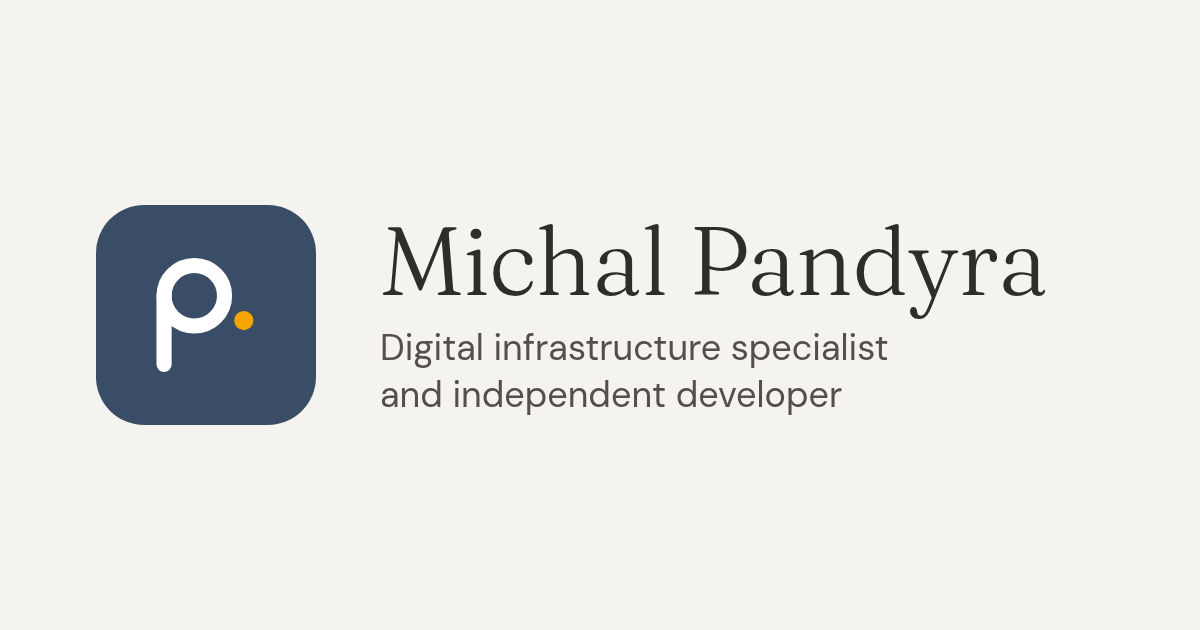
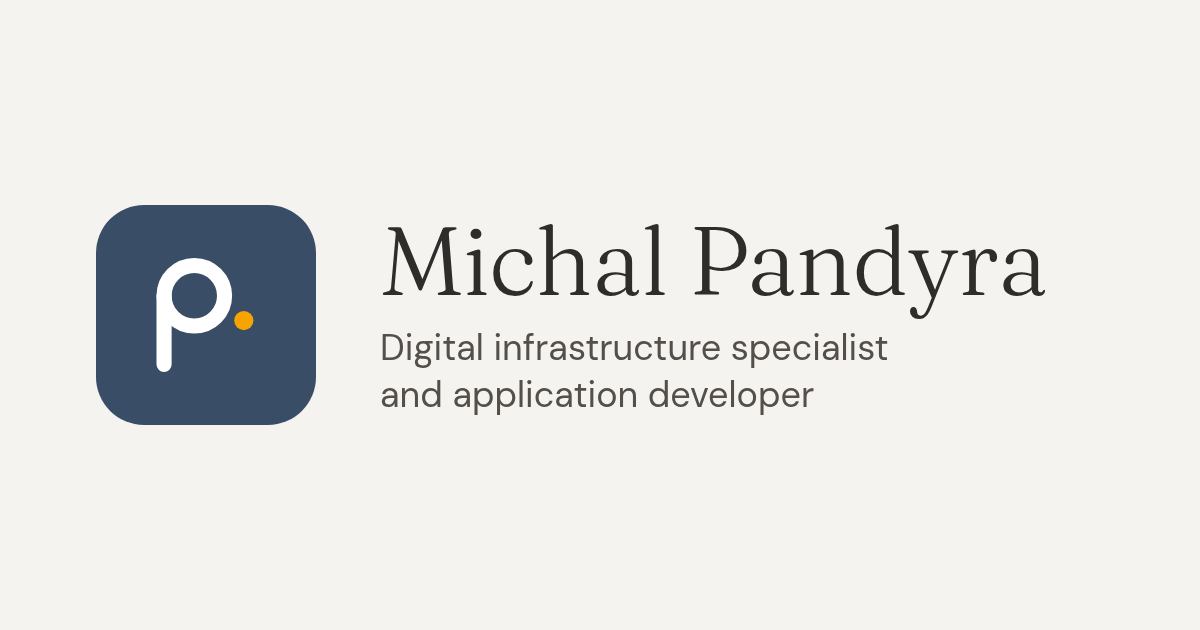
Release: GA4, privacy page, app pages, pandymic.com subtitle and LinkedIn

Changed region(s): [[0.37, 0.6032, 0.7092, 0.6635]]

diff --git a/me.html b/me.html
@@ -4,4 +4,4 @@
 <!--║ snek  rogu                         ║-->
 <!--║ (Esc exits back to this menu)      ║-->
 <!--╚════════════════════════════════════╝-->
-<!DOCTYPE html> <html lang="en"> <head> <meta charset="utf-8"> <meta name="viewport" content="width=device-width,initial-scale=1"> <title>Michal Pandyra</title> <meta name="description" content="Michal Pandyra&#39;s contact card. Email, phone, website and GitHub, or save it straight to your contacts."> <link rel="canonical" href="https://pandymic.com/me"> <meta name="color-scheme" content="light dark"> <meta name="theme-color" media="(prefers-color-scheme: light)" content="#f5f3ef"> <meta name="theme-color" media="(prefers-color-scheme: dark)" content="#1c1b19"> <meta property="og:type" content="website"> <meta property="og:site_name" content="Michal Pandyra"> <meta property="og:title" content="Michal Pandyra"> <meta property="og:description" content="Michal Pandyra&#39;s contact card. Email, phone, website and GitHub, or save it straight to your contacts."> <meta property="og:url" content="https://pandymic.com/me"> <meta property="og:image" content="https://pandymic.com/assets/og.png"> <meta property="og:image:width" content="1200"> <meta property="og:image:height" content="630"> <meta name="twitter:card" content="summary_large_image"> <link rel="icon" href="/assets/favicon.svg?v=7860858017" type="image/svg+xml"> <link rel="icon" href="/assets/favicon-32.png?v=a0b72ff6d1" type="image/png" sizes="32x32"> <link rel="apple-touch-icon" href="/assets/apple-touch-icon.png?v=58786819da"> <link rel="preload" href="/fonts/fraunces-latin-300-normal.woff2" as="font" type="font/woff2" crossorigin> <link rel="preload" href="/fonts/dm-sans-latin-400-normal.woff2" as="font" type="font/woff2" crossorigin> <link rel="stylesheet" href="/css/me.css?v=8a99a03110"> <script src="/js/me.js?v=1b71f2b56e" defer></script> </head> <body> <div class="glitch-overlay" aria-hidden="true"></div> <main class="card" id="main"> <div class="portrait-container"> <picture> <source srcset="/assets/img/portrait-320.avif?v=8334a9f8f9" type="image/avif"> <source srcset="/assets/img/portrait-320.webp?v=ae513f578d" type="image/webp"> <img src="/assets/img/portrait-320.jpg?v=8a261c3683" alt="Portrait of Michal Pandyra" width="320" height="320"> </picture> </div> <h1>Michal Pandyra</h1> <p class="contact-subtitle"> <a href="mailto:mike@pandymic.com">mike@pandymic.com</a><br> <a href="tel:+17788854257">778-885-4257</a> </p> <div class="actions"> <a class="btn primary-btn btn-full" href="/"><svg class="icon" viewBox="0 0 24 24" fill="currentColor" aria-hidden="true" focusable="false"><path d="M3.9 12c0-1.71 1.39-3.1 3.1-3.1h4V7H7c-2.76 0-5 2.24-5 5s2.24 5 5 5h4v-1.9H7c-1.71 0-3.1-1.39-3.1-3.1zM8 13h8v-2H8v2zm9-6h-4v1.9h4c1.71 0 3.1 1.39 3.1 3.1s-1.39 3.1-3.1 3.1h-4V17h4c2.76 0 5-2.24 5-5s-2.24-5-5-5z"/></svg>Website</a> <a class="btn" href="https://github.com/pandymic"><svg class="icon" viewBox="0 0 24 24" fill="currentColor" aria-hidden="true" focusable="false"><path d="M12 2C6.477 2 2 6.477 2 12c0 4.419 2.865 8.166 6.839 9.489.5.092.682-.217.682-.482 0-.237-.008-.866-.013-1.7-2.782.603-3.369-1.34-3.369-1.34-.454-1.156-1.11-1.464-1.11-1.464-.908-.62.069-.608.069-.608 1.003.07 1.531 1.03 1.531 1.03.892 1.529 2.341 1.087 2.91.832.092-.647.35-1.088.636-1.338-2.22-.253-4.555-1.113-4.555-4.951 0-1.093.39-1.988 1.029-2.688-.103-.253-.446-1.272.098-2.65 0 0 .84-.27 2.75 1.026A9.564 9.564 0 0112 6.844c.85.004 1.705.115 2.504.337 1.909-1.296 2.747-1.027 2.747-1.027.546 1.379.202 2.398.1 2.651.64.7 1.028 1.595 1.028 2.688 0 3.848-2.339 4.695-4.566 4.943.359.309.678.92.678 1.855 0 1.338-.012 2.419-.012 2.747 0 .268.18.58.688.482C19.138 20.161 22 16.416 22 12c0-5.523-4.477-10-10-10z"/></svg>Personal<span class="sr-only"> GitHub</span></a> <a class="btn" href="https://github.com/pandymic-pfg"><svg class="icon" viewBox="0 0 24 24" fill="currentColor" aria-hidden="true" focusable="false"><path d="M12 2C6.477 2 2 6.477 2 12c0 4.419 2.865 8.166 6.839 9.489.5.092.682-.217.682-.482 0-.237-.008-.866-.013-1.7-2.782.603-3.369-1.34-3.369-1.34-.454-1.156-1.11-1.464-1.11-1.464-.908-.62.069-.608.069-.608 1.003.07 1.531 1.03 1.531 1.03.892 1.529 2.341 1.087 2.91.832.092-.647.35-1.088.636-1.338-2.22-.253-4.555-1.113-4.555-4.951 0-1.093.39-1.988 1.029-2.688-.103-.253-.446-1.272.098-2.65 0 0 .84-.27 2.75 1.026A9.564 9.564 0 0112 6.844c.85.004 1.705.115 2.504.337 1.909-1.296 2.747-1.027 2.747-1.027.546 1.379.202 2.398.1 2.651.64.7 1.028 1.595 1.028 2.688 0 3.848-2.339 4.695-4.566 4.943.359.309.678.92.678 1.855 0 1.338-.012 2.419-.012 2.747 0 .268.18.58.688.482C19.138 20.161 22 16.416 22 12c0-5.523-4.477-10-10-10z"/></svg>Corporate<span class="sr-only"> GitHub</span></a> <button class="btn primary-btn" id="share-trigger" type="button" hidden><svg class="icon" viewBox="0 0 24 24" fill="currentColor" aria-hidden="true" focusable="false"><path d="M18 16.08c-.76 0-1.44.3-1.96.77L8.91 12.7c.05-.23.09-.46.09-.7s-.04-.47-.09-.7l7.05-4.11c.54.5 1.25.81 2.04.81 1.66 0 3-1.34 3-3s-1.34-3-3-3-3 1.34-3 3c0 .24.04.47.09.7L8.04 9.81C7.5 9.31 6.79 9 6 9c-1.66 0-3 1.34-3 3s1.34 3 3 3c.79 0 1.5-.31 2.04-.81l7.12 4.16c-.05.21-.08.43-.08.65 0 1.61 1.31 2.92 2.92 2.92s2.92-1.31 2.92-2.92c0-1.61-1.31-2.92-2.92-2.92z"/></svg>Share</button> <a class="btn primary-btn" id="vcard-trigger" href="/michal-pandyra.vcf" download><svg class="icon" viewBox="0 0 24 24" fill="currentColor" aria-hidden="true" focusable="false"><path d="M20 7h-4V5c0-.55-.45-1-1-1H9c-.55 0-1 .45-1 1v2H4c-1.1 0-2 .9-2 2v11c0 1.1.9 2 2 2h16c1.1 0 2-.9 2-2V9c0-1.1-.9-2-2-2zM10 6h4v1h-4V6zm1 12h-2v-2h2v2zm0-4h-2v-2h2v2zm4 4h-2v-2h2v2zm0-4h-2v-2h2v2z"/></svg>Contact<span class="sr-only"> card (vCard)</span></a> </div> <p class="card-status" id="card-status" role="status"></p> <button id="appearance-trigger" type="button" aria-haspopup="dialog" aria-controls="theme-overlay" hidden>Appearance</button> </main> <dialog id="theme-overlay" aria-labelledby="picker-title"> <h2 class="picker-title" id="picker-title">Appearance</h2> <div class="picker-grid" id="picker-grid"></div> <button class="picker-close" id="picker-close" type="button">Close</button> </dialog> <script src="/js/arcade.js?v=99862998b3" defer></script> </body> </html>
+<!DOCTYPE html> <html lang="en"> <head> <meta charset="utf-8"> <meta name="viewport" content="width=device-width,initial-scale=1"> <title>Michal Pandyra</title> <meta name="description" content="Michal Pandyra&#39;s contact card. Email, phone, website and GitHub, or save it straight to your contacts."> <link rel="canonical" href="https://pandymic.com/me"> <meta name="color-scheme" content="light dark"> <meta name="theme-color" media="(prefers-color-scheme: light)" content="#f5f3ef"> <meta name="theme-color" media="(prefers-color-scheme: dark)" content="#1c1b19"> <meta property="og:type" content="website"> <meta property="og:site_name" content="Michal Pandyra"> <meta property="og:title" content="Michal Pandyra"> <meta property="og:description" content="Michal Pandyra&#39;s contact card. Email, phone, website and GitHub, or save it straight to your contacts."> <meta property="og:url" content="https://pandymic.com/me"> <meta property="og:image" content="https://pandymic.com/assets/og.png"> <meta property="og:image:width" content="1200"> <meta property="og:image:height" content="630"> <meta name="twitter:card" content="summary_large_image"> <link rel="icon" href="/assets/favicon.svg?v=7860858017" type="image/svg+xml"> <link rel="icon" href="/assets/favicon-32.png?v=a0b72ff6d1" type="image/png" sizes="32x32"> <link rel="apple-touch-icon" href="/assets/apple-touch-icon.png?v=58786819da"> <link rel="preload" href="/fonts/fraunces-latin-300-normal.woff2" as="font" type="font/woff2" crossorigin> <link rel="preload" href="/fonts/dm-sans-latin-400-normal.woff2" as="font" type="font/woff2" crossorigin> <link rel="stylesheet" href="/css/me.css?v=8a99a03110"> <script async src="https://www.googletagmanager.com/gtag/js?id=G-Y3J0J784BY"></script> <script async src="/js/analytics.js?v=93f82c32db"></script> <script src="/js/me.js?v=1b71f2b56e" defer></script> </head> <body> <div class="glitch-overlay" aria-hidden="true"></div> <main class="card" id="main"> <div class="portrait-container"> <picture> <source srcset="/assets/img/portrait-320.avif?v=8334a9f8f9" type="image/avif"> <source srcset="/assets/img/portrait-320.webp?v=ae513f578d" type="image/webp"> <img src="/assets/img/portrait-320.jpg?v=8a261c3683" alt="Portrait of Michal Pandyra" width="320" height="320"> </picture> </div> <h1>Michal Pandyra</h1> <p class="contact-subtitle"> <a href="mailto:mike@pandymic.com">mike@pandymic.com</a><br> <a href="tel:+17788854257">778-885-4257</a> </p> <div class="actions"> <a class="btn primary-btn btn-full" href="/"><svg class="icon" viewBox="0 0 24 24" fill="currentColor" aria-hidden="true" focusable="false"><path d="M3.9 12c0-1.71 1.39-3.1 3.1-3.1h4V7H7c-2.76 0-5 2.24-5 5s2.24 5 5 5h4v-1.9H7c-1.71 0-3.1-1.39-3.1-3.1zM8 13h8v-2H8v2zm9-6h-4v1.9h4c1.71 0 3.1 1.39 3.1 3.1s-1.39 3.1-3.1 3.1h-4V17h4c2.76 0 5-2.24 5-5s-2.24-5-5-5z"/></svg>Website</a> <a class="btn" href="https://github.com/pandymic"><svg class="icon" viewBox="0 0 24 24" fill="currentColor" aria-hidden="true" focusable="false"><path d="M12 2C6.477 2 2 6.477 2 12c0 4.419 2.865 8.166 6.839 9.489.5.092.682-.217.682-.482 0-.237-.008-.866-.013-1.7-2.782.603-3.369-1.34-3.369-1.34-.454-1.156-1.11-1.464-1.11-1.464-.908-.62.069-.608.069-.608 1.003.07 1.531 1.03 1.531 1.03.892 1.529 2.341 1.087 2.91.832.092-.647.35-1.088.636-1.338-2.22-.253-4.555-1.113-4.555-4.951 0-1.093.39-1.988 1.029-2.688-.103-.253-.446-1.272.098-2.65 0 0 .84-.27 2.75 1.026A9.564 9.564 0 0112 6.844c.85.004 1.705.115 2.504.337 1.909-1.296 2.747-1.027 2.747-1.027.546 1.379.202 2.398.1 2.651.64.7 1.028 1.595 1.028 2.688 0 3.848-2.339 4.695-4.566 4.943.359.309.678.92.678 1.855 0 1.338-.012 2.419-.012 2.747 0 .268.18.58.688.482C19.138 20.161 22 16.416 22 12c0-5.523-4.477-10-10-10z"/></svg>Personal<span class="sr-only"> GitHub</span></a> <a class="btn" href="https://github.com/pandymic-pfg"><svg class="icon" viewBox="0 0 24 24" fill="currentColor" aria-hidden="true" focusable="false"><path d="M12 2C6.477 2 2 6.477 2 12c0 4.419 2.865 8.166 6.839 9.489.5.092.682-.217.682-.482 0-.237-.008-.866-.013-1.7-2.782.603-3.369-1.34-3.369-1.34-.454-1.156-1.11-1.464-1.11-1.464-.908-.62.069-.608.069-.608 1.003.07 1.531 1.03 1.531 1.03.892 1.529 2.341 1.087 2.91.832.092-.647.35-1.088.636-1.338-2.22-.253-4.555-1.113-4.555-4.951 0-1.093.39-1.988 1.029-2.688-.103-.253-.446-1.272.098-2.65 0 0 .84-.27 2.75 1.026A9.564 9.564 0 0112 6.844c.85.004 1.705.115 2.504.337 1.909-1.296 2.747-1.027 2.747-1.027.546 1.379.202 2.398.1 2.651.64.7 1.028 1.595 1.028 2.688 0 3.848-2.339 4.695-4.566 4.943.359.309.678.92.678 1.855 0 1.338-.012 2.419-.012 2.747 0 .268.18.58.688.482C19.138 20.161 22 16.416 22 12c0-5.523-4.477-10-10-10z"/></svg>Corporate<span class="sr-only"> GitHub</span></a> <button class="btn primary-btn" id="share-trigger" type="button" hidden><svg class="icon" viewBox="0 0 24 24" fill="currentColor" aria-hidden="true" focusable="false"><path d="M18 16.08c-.76 0-1.44.3-1.96.77L8.91 12.7c.05-.23.09-.46.09-.7s-.04-.47-.09-.7l7.05-4.11c.54.5 1.25.81 2.04.81 1.66 0 3-1.34 3-3s-1.34-3-3-3-3 1.34-3 3c0 .24.04.47.09.7L8.04 9.81C7.5 9.31 6.79 9 6 9c-1.66 0-3 1.34-3 3s1.34 3 3 3c.79 0 1.5-.31 2.04-.81l7.12 4.16c-.05.21-.08.43-.08.65 0 1.61 1.31 2.92 2.92 2.92s2.92-1.31 2.92-2.92c0-1.61-1.31-2.92-2.92-2.92z"/></svg>Share</button> <a class="btn primary-btn" id="vcard-trigger" href="/michal-pandyra.vcf" download><svg class="icon" viewBox="0 0 24 24" fill="currentColor" aria-hidden="true" focusable="false"><path d="M20 7h-4V5c0-.55-.45-1-1-1H9c-.55 0-1 .45-1 1v2H4c-1.1 0-2 .9-2 2v11c0 1.1.9 2 2 2h16c1.1 0 2-.9 2-2V9c0-1.1-.9-2-2-2zM10 6h4v1h-4V6zm1 12h-2v-2h2v2zm0-4h-2v-2h2v2zm4 4h-2v-2h2v2zm0-4h-2v-2h2v2z"/></svg>Contact<span class="sr-only"> card (vCard)</span></a> </div> <p class="card-status" id="card-status" role="status"></p> <button id="appearance-trigger" type="button" aria-haspopup="dialog" aria-controls="theme-overlay" hidden>Appearance</button> </main> <dialog id="theme-overlay" aria-labelledby="picker-title"> <h2 class="picker-title" id="picker-title">Appearance</h2> <div class="picker-grid" id="picker-grid"></div> <button class="picker-close" id="picker-close" type="button">Close</button> </dialog> <script src="/js/arcade.js?v=99862998b3" defer></script> </body> </html>

diff --git a/index.html b/index.html
@@ -4,4 +4,4 @@
 <!--║ snek  rogu                         ║-->
 <!--║ (Esc exits back to this menu)      ║-->
 <!--╚════════════════════════════════════╝-->
-<!DOCTYPE html> <html lang="en"> <head> <meta charset="utf-8"> <meta name="viewport" content="width=device-width,initial-scale=1"> <title>Michal Pandyra</title> <meta name="description" content="Michal Pandyra, digital infrastructure specialist and independent developer. Contact details, projects and code."> <link rel="canonical" href="https://pandymic.com/"> <meta name="color-scheme" content="light dark"> <meta name="theme-color" media="(prefers-color-scheme: light)" content="#f5f3ef"> <meta name="theme-color" media="(prefers-color-scheme: dark)" content="#1c1b19"> <meta property="og:type" content="website"> <meta property="og:site_name" content="Michal Pandyra"> <meta property="og:title" content="Michal Pandyra"> <meta property="og:description" content="Michal Pandyra, digital infrastructure specialist and independent developer. Contact details, projects and code."> <meta property="og:url" content="https://pandymic.com/"> <meta property="og:image" content="https://pandymic.com/assets/og.png"> <meta property="og:image:width" content="1200"> <meta property="og:image:height" content="630"> <meta name="twitter:card" content="summary_large_image"> <link rel="icon" href="/assets/favicon.svg?v=7860858017" type="image/svg+xml"> <link rel="icon" href="/assets/favicon-32.png?v=a0b72ff6d1" type="image/png" sizes="32x32"> <link rel="apple-touch-icon" href="/assets/apple-touch-icon.png?v=58786819da"> <link rel="preload" href="/fonts/fraunces-latin-300-normal.woff2" as="font" type="font/woff2" crossorigin> <link rel="preload" href="/fonts/dm-sans-latin-400-normal.woff2" as="font" type="font/woff2" crossorigin> <link rel="stylesheet" href="/css/styles.css?v=dfcad144fe"></head> <body class="layout-splash"> <a class="skip-link" href="#main">Skip to main content</a> <header class="site-header"> <a class="brand" href="/"><svg class="logo" viewBox="0 0 64 64" fill="none" stroke-width="4" stroke-linecap="round" aria-hidden="true" focusable="false"><circle class="logo__p" cx="30" cy="27" r="11"/><path class="logo__p" d="M19 27v25"/><circle class="logo__dot" cx="48" cy="36" r="3.5"/></svg><span class="brand__name">pandymic</span><span class="sr-only"> home</span></a> </header> <main id="main" tabindex="-1"> <div class="splash"> <div class="flow"> <p class="eyebrow">Hello, I’m</p> <h1>Michal Pandyra</h1> <p class="lead">Digital infrastructure specialist and independent developer. A fuller site is on its way; until then, here’s where to find me.</p> <ul class="links" role="list"> <li><a href="/me">Contact card</a></li> <li><a href="https://eightyfour.ca/">Projects at eightyfour.ca</a></li> <li><a href="https://github.com/pandymic">Code on GitHub</a></li> <li><a href="mailto:mike@pandymic.com">mike@pandymic.com</a></li> </ul> </div> <picture><source srcset="/assets/img/portrait-720.avif?v=325a005e0a" type="image/avif"><source srcset="/assets/img/portrait-720.webp?v=e92df26f69" type="image/webp"><img src="/assets/img/portrait-720.jpg?v=460013f251" alt="Portrait of Michal Pandyra" class="polaroid" width="720" height="720" loading="eager" decoding="async"></picture></div> </main> <footer class="site-footer"> <p>© 2026 Michal Pandyra</p> <nav aria-label="Footer"><ul role="list"><li><a href="/me">Contact card</a></li><li><a href="https://eightyfour.ca/">eightyfour.ca</a></li><li><a href="https://eightyfour.ca/privacy">Privacy</a></li></ul></nav> </footer> <script src="/js/arcade.js?v=99862998b3" defer></script> </body> </html>
+<!DOCTYPE html> <html lang="en"> <head> <meta charset="utf-8"> <meta name="viewport" content="width=device-width,initial-scale=1"> <title>Michal Pandyra</title> <meta name="description" content="Michal Pandyra, digital infrastructure specialist and application developer. Contact details, projects, code and LinkedIn."> <link rel="canonical" href="https://pandymic.com/"> <meta name="color-scheme" content="light dark"> <meta name="theme-color" media="(prefers-color-scheme: light)" content="#f5f3ef"> <meta name="theme-color" media="(prefers-color-scheme: dark)" content="#1c1b19"> <meta property="og:type" content="website"> <meta property="og:site_name" content="Michal Pandyra"> <meta property="og:title" content="Michal Pandyra"> <meta property="og:description" content="Michal Pandyra, digital infrastructure specialist and application developer. Contact details, projects, code and LinkedIn."> <meta property="og:url" content="https://pandymic.com/"> <meta property="og:image" content="https://pandymic.com/assets/og.png"> <meta property="og:image:width" content="1200"> <meta property="og:image:height" content="630"> <meta name="twitter:card" content="summary_large_image"> <link rel="icon" href="/assets/favicon.svg?v=7860858017" type="image/svg+xml"> <link rel="icon" href="/assets/favicon-32.png?v=a0b72ff6d1" type="image/png" sizes="32x32"> <link rel="apple-touch-icon" href="/assets/apple-touch-icon.png?v=58786819da"> <link rel="preload" href="/fonts/fraunces-latin-300-normal.woff2" as="font" type="font/woff2" crossorigin> <link rel="preload" href="/fonts/dm-sans-latin-400-normal.woff2" as="font" type="font/woff2" crossorigin> <link rel="stylesheet" href="/css/styles.css?v=dfcad144fe"> <script async src="https://www.googletagmanager.com/gtag/js?id=G-Y3J0J784BY"></script> <script async src="/js/analytics.js?v=93f82c32db"></script></head> <body class="layout-splash"> <a class="skip-link" href="#main">Skip to main content</a> <header class="site-header"> <a class="brand" href="/"><svg class="logo" viewBox="0 0 64 64" fill="none" stroke-width="4" stroke-linecap="round" aria-hidden="true" focusable="false"><circle class="logo__p" cx="30" cy="27" r="11"/><path class="logo__p" d="M19 27v25"/><circle class="logo__dot" cx="48" cy="36" r="3.5"/></svg><span class="brand__name">pandymic</span><span class="sr-only"> home</span></a> </header> <main id="main" tabindex="-1"> <div class="splash"> <div class="flow"> <p class="eyebrow">Hello, I’m</p> <h1>Michal Pandyra</h1> <p class="lead">Digital infrastructure specialist and application developer.</p> <ul class="links" role="list"> <li><a href="/me">Contact card</a></li> <li><a href="https://eightyfour.ca/">Projects at eightyfour.ca</a></li> <li><a href="https://github.com/pandymic">Code on GitHub</a></li> <li><a href="https://www.linkedin.com/in/pandymic">LinkedIn</a></li> <li><a href="mailto:mike@pandymic.com">mike@pandymic.com</a></li> </ul> </div> <picture><source srcset="/assets/img/portrait-720.avif?v=325a005e0a" type="image/avif"><source srcset="/assets/img/portrait-720.webp?v=e92df26f69" type="image/webp"><img src="/assets/img/portrait-720.jpg?v=460013f251" alt="Portrait of Michal Pandyra" class="polaroid" width="720" height="720" loading="eager" decoding="async"></picture></div> </main> <footer class="site-footer"> <p>© 2026 Michal Pandyra</p> <nav aria-label="Footer"><ul role="list"><li><a href="/me">Contact card</a></li><li><a href="https://eightyfour.ca/">eightyfour.ca</a></li><li><a href="https://eightyfour.ca/privacy">Privacy</a></li></ul></nav> </footer> <script src="/js/arcade.js?v=99862998b3" defer></script> </body> </html>

diff --git a/404.html b/404.html
@@ -4,4 +4,4 @@
 <!--║ snek  rogu                         ║-->
 <!--║ (Esc exits back to this menu)      ║-->
 <!--╚════════════════════════════════════╝-->
-<!DOCTYPE html> <html lang="en"> <head> <meta charset="utf-8"> <meta name="viewport" content="width=device-width,initial-scale=1"> <title>Page not found · Michal Pandyra</title> <meta name="description" content="That page doesn&#39;t exist on pandymic.com."> <meta name="robots" content="noindex"> <meta name="color-scheme" content="light dark"> <meta name="theme-color" media="(prefers-color-scheme: light)" content="#f5f3ef"> <meta name="theme-color" media="(prefers-color-scheme: dark)" content="#1c1b19"> <meta property="og:type" content="website"> <meta property="og:site_name" content="Michal Pandyra"> <meta property="og:title" content="Page not found"> <meta property="og:description" content="That page doesn&#39;t exist on pandymic.com."> <meta property="og:url" content="https://pandymic.com/404"> <meta property="og:image" content="https://pandymic.com/assets/og.png"> <meta property="og:image:width" content="1200"> <meta property="og:image:height" content="630"> <meta name="twitter:card" content="summary_large_image"> <link rel="icon" href="/assets/favicon.svg?v=7860858017" type="image/svg+xml"> <link rel="icon" href="/assets/favicon-32.png?v=a0b72ff6d1" type="image/png" sizes="32x32"> <link rel="apple-touch-icon" href="/assets/apple-touch-icon.png?v=58786819da"> <link rel="preload" href="/fonts/fraunces-latin-300-normal.woff2" as="font" type="font/woff2" crossorigin> <link rel="preload" href="/fonts/dm-sans-latin-400-normal.woff2" as="font" type="font/woff2" crossorigin> <link rel="stylesheet" href="/css/styles.css?v=dfcad144fe"></head> <body class="layout-splash"> <a class="skip-link" href="#main">Skip to main content</a> <header class="site-header"> <a class="brand" href="/"><svg class="logo" viewBox="0 0 64 64" fill="none" stroke-width="4" stroke-linecap="round" aria-hidden="true" focusable="false"><circle class="logo__p" cx="30" cy="27" r="11"/><path class="logo__p" d="M19 27v25"/><circle class="logo__dot" cx="48" cy="36" r="3.5"/></svg><span class="brand__name">pandymic</span><span class="sr-only"> home</span></a> </header> <main id="main" tabindex="-1"> <section> <p class="eyebrow">Error 404</p> <h1>Nothing here.</h1> <p class="lead">The page you were looking for doesn’t exist. This site was rebuilt in 2026, so older links may no longer work.</p> <p><a href="/" class="btn">Back to the home page</a></p> </section> </main> <footer class="site-footer"> <p>© 2026 Michal Pandyra</p> <nav aria-label="Footer"><ul role="list"><li><a href="/me">Contact card</a></li><li><a href="https://eightyfour.ca/">eightyfour.ca</a></li><li><a href="https://eightyfour.ca/privacy">Privacy</a></li></ul></nav> </footer> <script src="/js/arcade.js?v=99862998b3" defer></script> </body> </html>
+<!DOCTYPE html> <html lang="en"> <head> <meta charset="utf-8"> <meta name="viewport" content="width=device-width,initial-scale=1"> <title>Page not found · Michal Pandyra</title> <meta name="description" content="That page doesn&#39;t exist on pandymic.com."> <meta name="robots" content="noindex"> <meta name="color-scheme" content="light dark"> <meta name="theme-color" media="(prefers-color-scheme: light)" content="#f5f3ef"> <meta name="theme-color" media="(prefers-color-scheme: dark)" content="#1c1b19"> <meta property="og:type" content="website"> <meta property="og:site_name" content="Michal Pandyra"> <meta property="og:title" content="Page not found"> <meta property="og:description" content="That page doesn&#39;t exist on pandymic.com."> <meta property="og:url" content="https://pandymic.com/404"> <meta property="og:image" content="https://pandymic.com/assets/og.png"> <meta property="og:image:width" content="1200"> <meta property="og:image:height" content="630"> <meta name="twitter:card" content="summary_large_image"> <link rel="icon" href="/assets/favicon.svg?v=7860858017" type="image/svg+xml"> <link rel="icon" href="/assets/favicon-32.png?v=a0b72ff6d1" type="image/png" sizes="32x32"> <link rel="apple-touch-icon" href="/assets/apple-touch-icon.png?v=58786819da"> <link rel="preload" href="/fonts/fraunces-latin-300-normal.woff2" as="font" type="font/woff2" crossorigin> <link rel="preload" href="/fonts/dm-sans-latin-400-normal.woff2" as="font" type="font/woff2" crossorigin> <link rel="stylesheet" href="/css/styles.css?v=dfcad144fe"> <script async src="https://www.googletagmanager.com/gtag/js?id=G-Y3J0J784BY"></script> <script async src="/js/analytics.js?v=93f82c32db"></script></head> <body class="layout-splash"> <a class="skip-link" href="#main">Skip to main content</a> <header class="site-header"> <a class="brand" href="/"><svg class="logo" viewBox="0 0 64 64" fill="none" stroke-width="4" stroke-linecap="round" aria-hidden="true" focusable="false"><circle class="logo__p" cx="30" cy="27" r="11"/><path class="logo__p" d="M19 27v25"/><circle class="logo__dot" cx="48" cy="36" r="3.5"/></svg><span class="brand__name">pandymic</span><span class="sr-only"> home</span></a> </header> <main id="main" tabindex="-1"> <section> <p class="eyebrow">Error 404</p> <h1>Nothing here.</h1> <p class="lead">The page you were looking for doesn’t exist. This site was rebuilt in 2026, so older links may no longer work.</p> <p><a href="/" class="btn">Back to the home page</a></p> </section> </main> <footer class="site-footer"> <p>© 2026 Michal Pandyra</p> <nav aria-label="Footer"><ul role="list"><li><a href="/me">Contact card</a></li><li><a href="https://eightyfour.ca/">eightyfour.ca</a></li><li><a href="https://eightyfour.ca/privacy">Privacy</a></li></ul></nav> </footer> <script src="/js/arcade.js?v=99862998b3" defer></script> </body> </html>

diff --git a/js/analytics.js b/js/analytics.js
@@ -1,0 +1,4 @@
+window.dataLayer = window.dataLayer || [];
+function gtag(){dataLayer.push(arguments);}
+gtag('js', new Date());
+gtag('config', 'G-Y3J0J784BY');

diff --git a/README.md b/README.md
@@ -1,6 +1,6 @@
 # pandymic.com
 
-The built, publicly served files of **[pandymic.com](https://pandymic.com/)**: Michal Pandyra, digital infrastructure specialist and independent developer.
+The built, publicly served files of **[pandymic.com](https://pandymic.com/)**: Michal Pandyra, digital infrastructure specialist and application developer.
 
 This repository is **generated**. It is produced by `npm run build` from a private source repository and
 replaced on every release, so please don't edit files or open pull requests here; changes would be overwritten.
